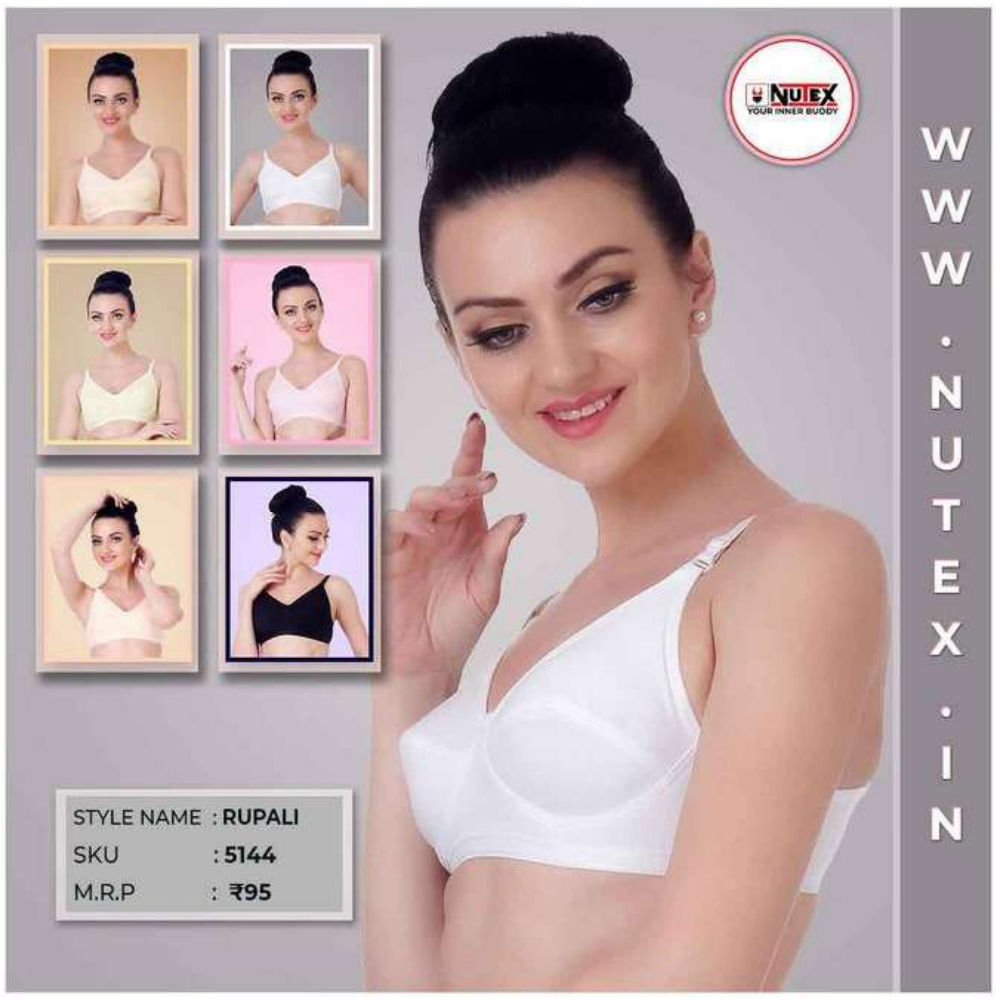
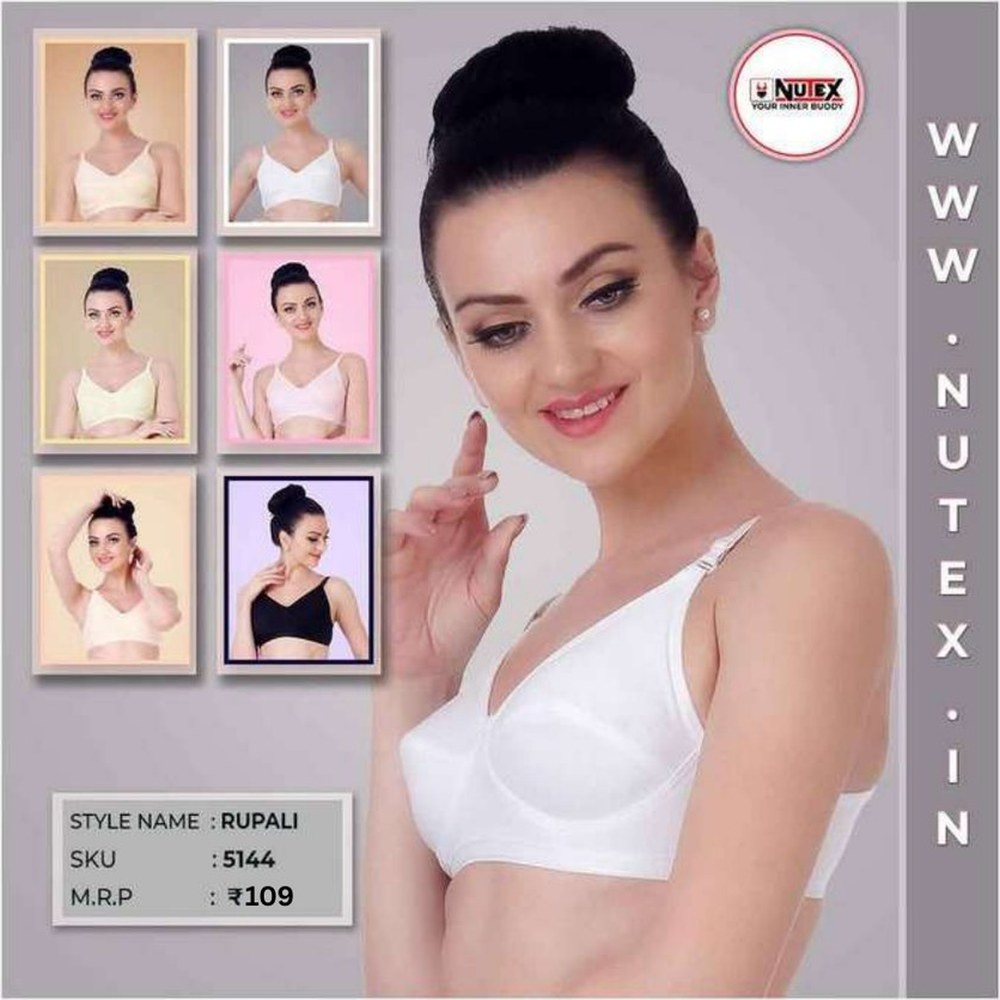
New photos: Rupali, Sunita, Madhu, KC Bra (new MRP), Ford Panty
The site's photos of Rupali (5144), Sunita (8004), Madhu (8006) and KC Bra
(5130) still showed the old MRP (95 / 95 / 110 / 85); the catalogue of
10-11-2026 prints 109 / 109 / 124 / 99, which the site already charges.
Ford Panty (FORD1) had no photo.

- catalog-import/images/products: the four photos taken again from the
  catalogue with the new MRP, plus ford-panty-8026.jpg; KC Bra MRP 99 in
  catalog.json
- Migration v40 uploads them and makes each the article's main photo; the
  old main photo is switched off (its row stays)

diff --git a/server/migrations/index.js b/server/migrations/index.js
@@ -521,7 +521,72 @@ export const MIGRATIONS = [
     version: 39,
     description: 'Item-wise credit notes: party, item search, Not given overwrite',
   },
+  {
+    // The owner's catalogue of 10-11-2026 prints the new MRPs on the photos
+    // (Rupali 109, Sunita 109, Madhu 124, KC Bra 99 - the MRPs on the site
+    // are already these), and Ford Panty had no photo. Each gets the photo
+    // from catalog-import/images/products; the old main photo is switched off
+    // (its row stays in Product_Images).
+    version: 40,
+    description: 'New photos: Rupali, Sunita, Madhu, KC Bra (new MRP), Ford Panty',
+    up: (ctx) => replaceProductPhotos(ctx, 40, PHOTOS_2026_11_27),
+  },
 ];
+
+export const PHOTOS_2026_11_27 = Object.freeze({
+  5144: 'products/p081.jpg',
+  8004: 'products/p083.jpg',
+  8006: 'products/p086.jpg',
+  '5130-KC-BRA': 'products/p087.jpg',
+  FORD1: 'products/ford-panty-8026.jpg',
+});
+
+// A product's main photo becomes the given catalogue image (by SKU). A photo
+// that cannot be uploaded is logged and left as it was; the rest go on.
+async function replaceProductPhotos({ sheets, logger }, version, photos) {
+  const { driveService } = await import('../services/driveService.js');
+  const { readCatalogImage } = await import('../services/catalogImportService.js');
+  const { DRIVE_FOLDERS, IMAGE_TYPE, RECORD_STATUS } = await import('../config/constants.js');
+  const { newId, ID_PREFIX } = await import('../utils/idGenerator.js');
+  if (!driveService.enabled) {
+    logger.warn(`Migration v${version}: Google Drive is not configured - product photos not changed`);
+    return;
+  }
+  const data = await sheets.readMany(['Products', 'Product_Images'], { fresh: true });
+  const now = new Date().toISOString();
+  const done = [];
+  for (const [sku, rel] of Object.entries(photos)) {
+    const product = data.Products.find((p) => String(p.sku || '').trim().toUpperCase() === String(sku).toUpperCase());
+    if (!product) {
+      logger.warn(`Migration v${version}: article ${sku} not found - photo skipped`);
+      continue;
+    }
+    try {
+      const img = await readCatalogImage(rel);
+      const { file_id: fileId } = await driveService.upload({
+        buffer: img.buffer, mimeType: img.mimeType, filename: `catalog-${sku}-2026-11-27${rel.slice(rel.lastIndexOf('.'))}`, folder: DRIVE_FOLDERS.PRODUCTS,
+      });
+      const old = data.Product_Images.filter((i) => i.product_id === product.product_id
+        && i.image_type === IMAGE_TYPE.MAIN && i.status !== RECORD_STATUS.INACTIVE);
+      await sheets.commit([
+        ...old.map((i) => ({ op: 'update', sheet: 'Product_Images', id: i.image_id, patch: { status: RECORD_STATUS.INACTIVE, updated_at: now } })),
+        {
+          op: 'append',
+          sheet: 'Product_Images',
+          rows: [{
+            image_id: newId(ID_PREFIX.image), product_id: product.product_id, drive_file_id: fileId,
+            file_url: `https://drive.google.com/file/d/${fileId}/view`, image_type: IMAGE_TYPE.MAIN,
+            alt_text: product.product_name, sort_order: 1, status: RECORD_STATUS.ACTIVE, created_at: now, updated_at: now,
+          }],
+        },
+      ]);
+      done.push(sku);
+    } catch (err) {
+      logger.error(`Migration v${version}: photo of ${sku} not changed (${err.message})`);
+    }
+  }
+  logger.info(`Migration v${version}: new photo for ${done.join(', ') || 'no article'}`);
+}
 
 // Order_Items_Summary customer_type (as at the time of the order) and doer (as in Orders)
 async function fillSummaryCustomerType({ sheets, logger }, version) {

diff --git a/server/tests/photos20261127.test.js b/server/tests/photos20261127.test.js
@@ -1,0 +1,44 @@
+import './helpers/env.js';
+import test from 'node:test';
+import assert from 'node:assert/strict';
+import { freshStore, createColorProduct } from './helpers/fixtures.js';
+import { sheetsService } from '../services/sheetsService.js';
+import { getCatalog } from '../services/catalogService.js';
+import { MIGRATIONS, PHOTOS_2026_11_27 } from '../migrations/index.js';
+import { readCatalogImage } from '../services/catalogImportService.js';
+
+// Migration v40: Rupali, Sunita, Madhu, KC Bra get the catalogue photo with
+// the new MRP, Ford Panty its first photo; the old main photo is switched off.
+
+const logs = [];
+const logger = { info: (m) => logs.push(m), warn: (m) => logs.push(m), error: (m) => logs.push(m) };
+
+test('the five photos are in catalog-import', async () => {
+  for (const rel of Object.values(PHOTOS_2026_11_27)) {
+    const img = await readCatalogImage(rel);
+    assert.ok(img.buffer.length > 50000, rel);
+    assert.equal(img.mimeType, 'image/jpeg');
+  }
+});
+
+test('v40: the article gets the new main photo, the old one is switched off', async () => {
+  const { adminCtx } = await freshStore();
+  await createColorProduct(adminCtx, { sku: '8006' });
+  await createColorProduct(adminCtx, { sku: 'FORD1' });
+  const products = await sheetsService.read('Products', { fresh: true });
+  const madhu = products.find((p) => p.sku === '8006');
+  const ford = products.find((p) => p.sku === 'FORD1');
+  const productId = (p) => p.product_id;
+  const images = async (id) => (await sheetsService.read('Product_Images', { fresh: true })).filter((i) => i.product_id === id);
+  const before = await images(productId(madhu));
+
+  await MIGRATIONS.find((m) => m.version === 40).up({ sheets: sheetsService, logger });
+  const after = await images(productId(madhu));
+  const active = after.filter((i) => i.status !== 'INACTIVE' && i.image_type === 'MAIN');
+  assert.equal(active.length, 1, `one main photo (${logs.join(' / ')})`);
+  assert.ok(!before.some((b) => b.image_id === active[0].image_id), 'it is the new one');
+  assert.ok(before.every((b) => after.find((a) => a.image_id === b.image_id).status === 'INACTIVE' || b.image_type !== 'MAIN'));
+  assert.equal((await images(productId(ford))).filter((i) => i.status !== 'INACTIVE' && i.image_type === 'MAIN').length, 1);
+  const catalog = await getCatalog({ fresh: true });
+  assert.ok(catalog.productsById.get(productId(madhu)), 'catalogue still loads');
+});

diff --git a/server/config/schema.js b/server/config/schema.js
@@ -10,7 +10,7 @@
 //    bump SCHEMA_VERSION and add an entry to server/migrations/index.js.
 // =====================================================================
 
-export const SCHEMA_VERSION = 39;
+export const SCHEMA_VERSION = 40;
 
 const n = 'number';
 const b = 'boolean';
@@ -27,7 +27,7 @@ export const SCHEMA = {
       'category_id', 'category_name', 'parent_category', 'slug', 'description',
       'image_file_id', 'image_url', 'status', 'sort_order', 'seo_title', 'seo_description',
       'created_at', 'updated_at',
-      // v12: ₹ per piece (per set) taken off when the customer chooses "less
+      // v12: â‚¹ per piece (per set) taken off when the customer chooses "less
       // packing charges". Blank = from the name: Set 4, Bra / Panty 2, else 0.
       'packing_charge',
     ],
